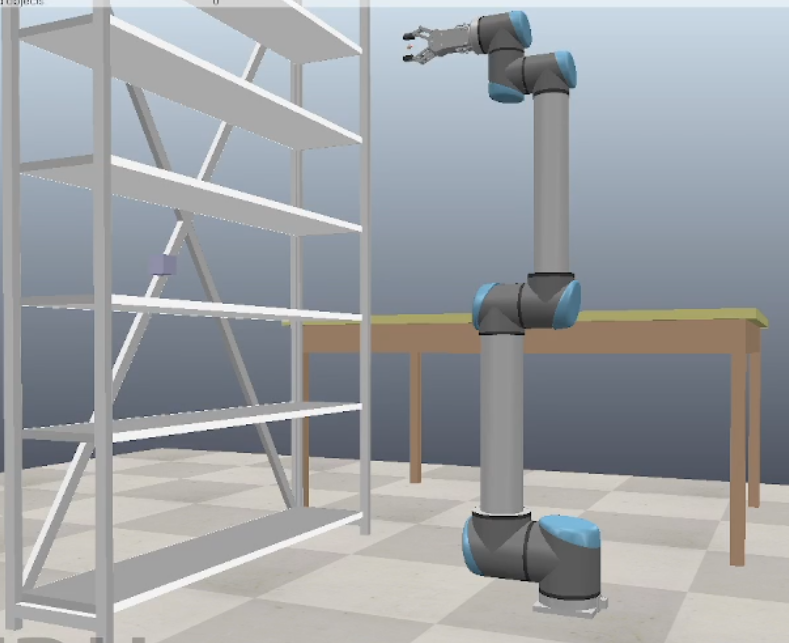
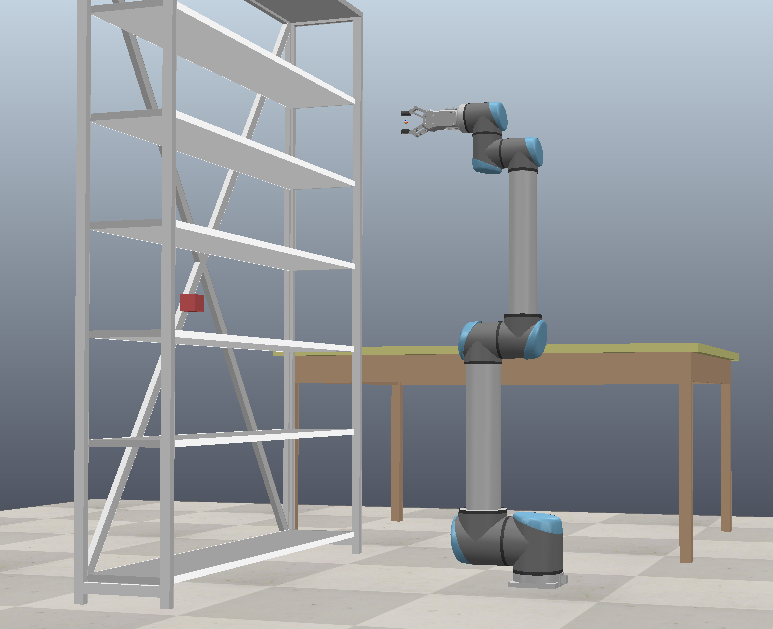
fix scene pic

diff --git a/README.md b/README.md
@@ -26,9 +26,10 @@ Example of running Bi-RRT algorithm is presented in [example.ipynb](./example.ip
 
 Before running example run `./coppeliaSim` and load scene in application `file->load_scene`.
 
-Using for experiments scene is located in [scenes/ur10_scene.ttt](./scenes/ur10_scene.ttt)
+Using for experiments scene is located in [scenes/ur10_scene_red.ttt](./scenes/ur10_scene.ttt)
 
 ![alt text](images/scene.png "Title")
+
 
 # Visualisation examples
 !["Visualisation of path made by BiRRT with uniform sampler"](videos/uniform.mp4)
